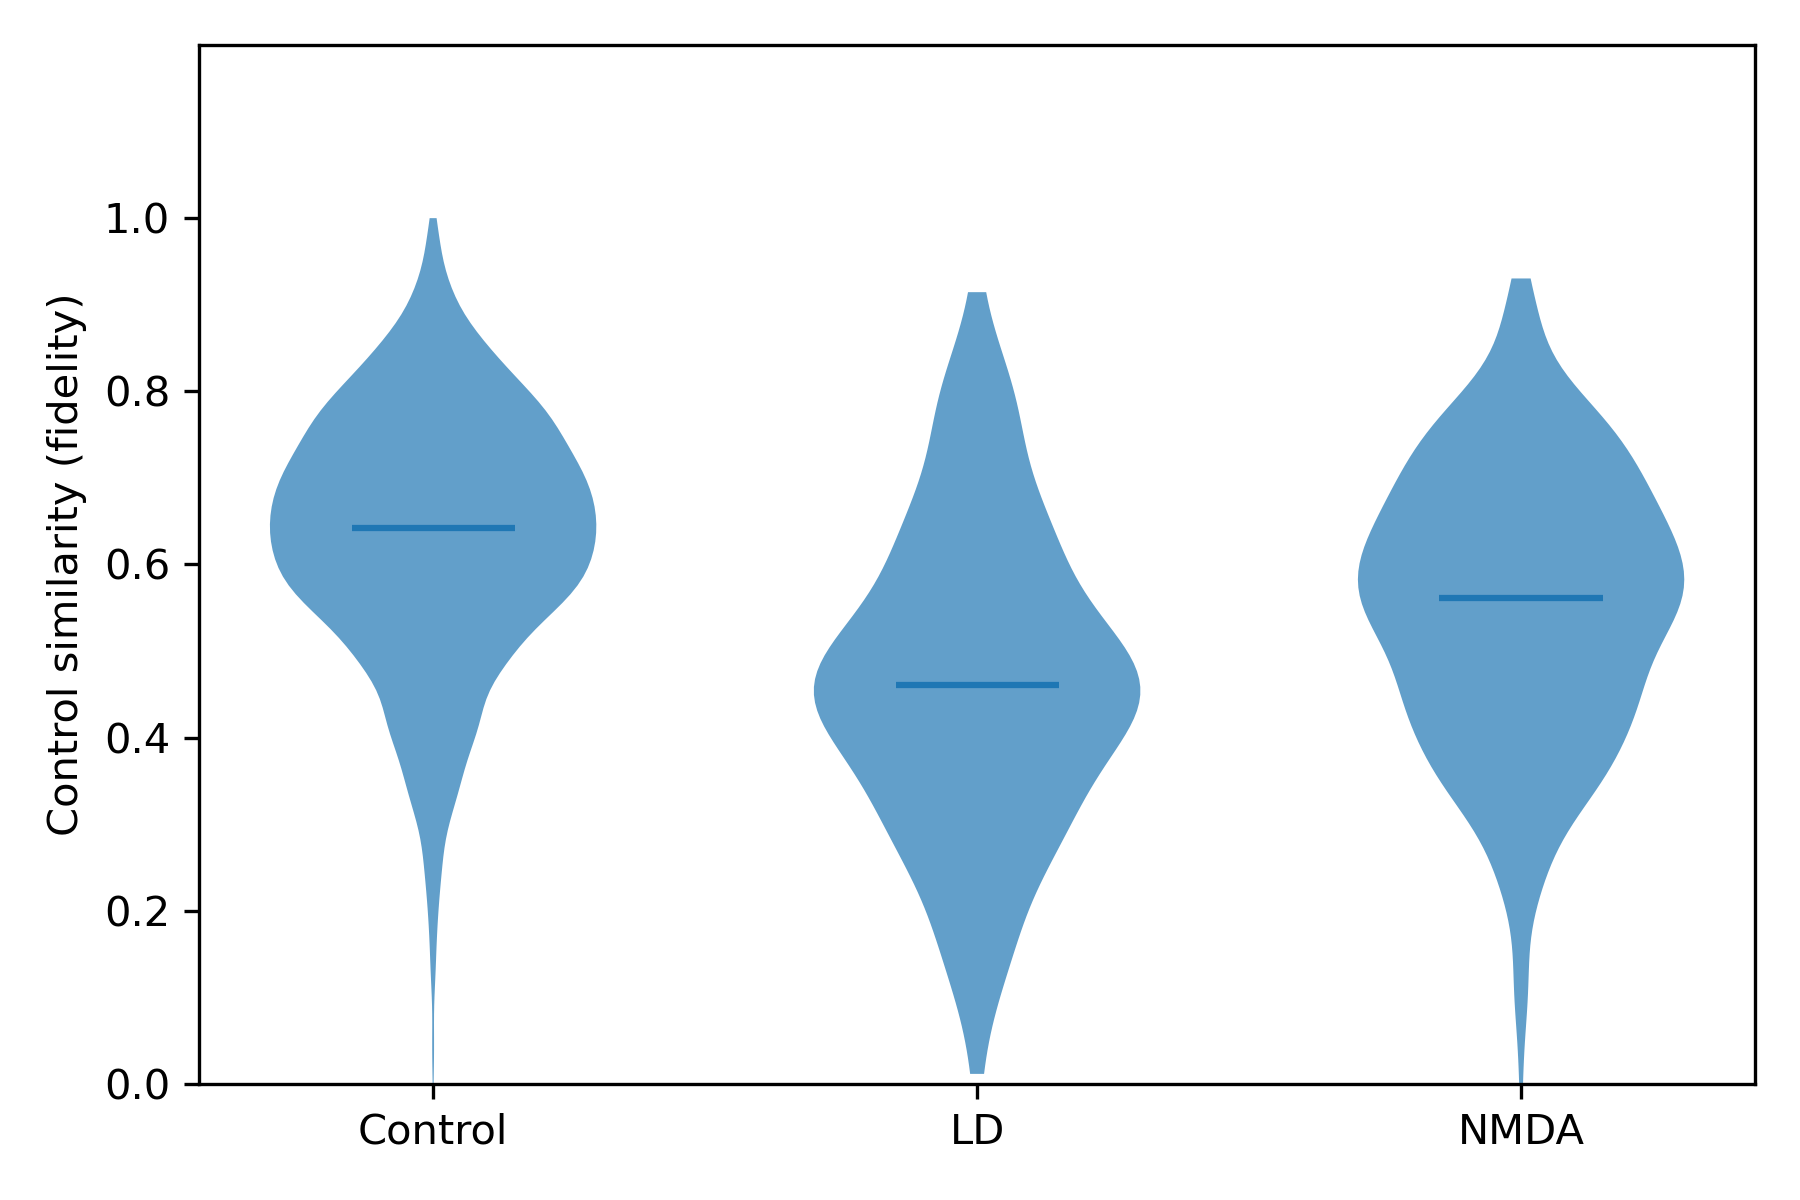
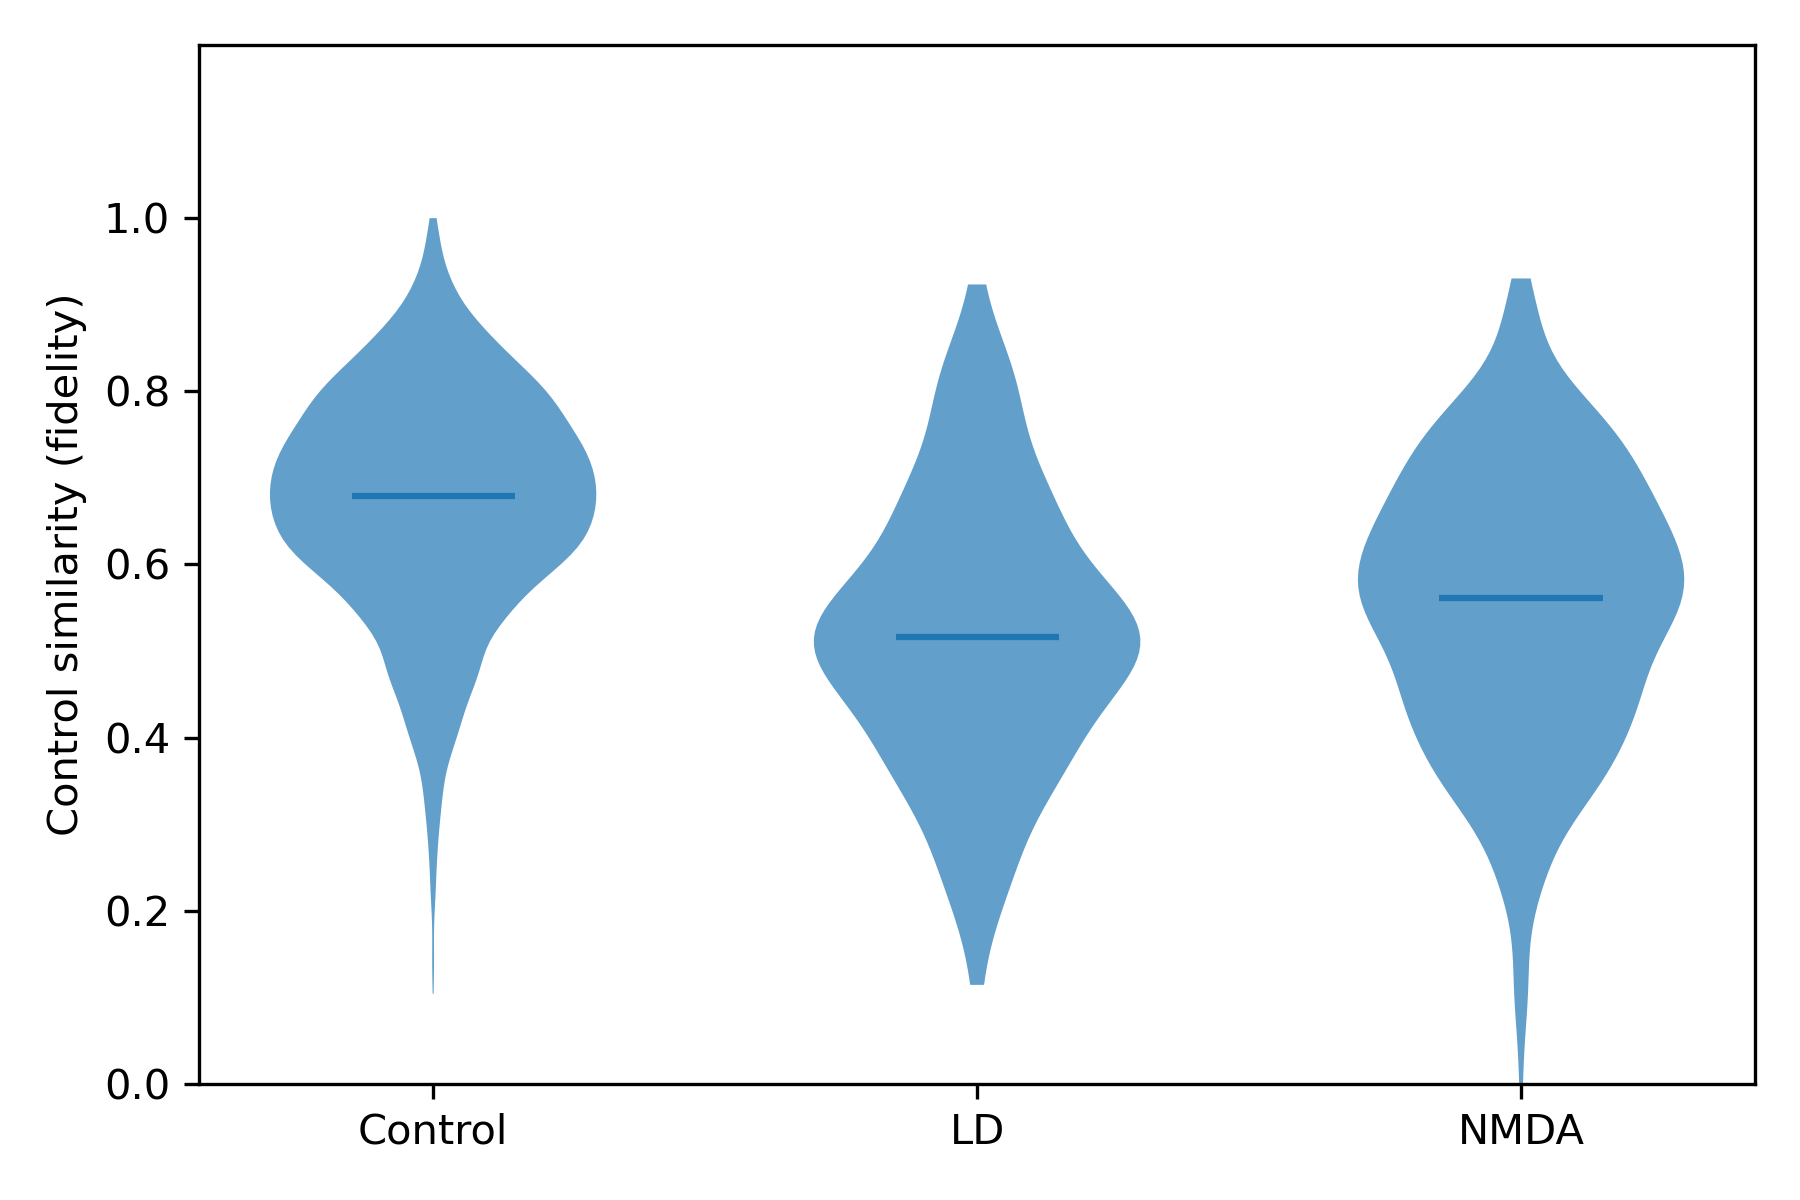
Update isolation forest plots

diff --git a/src/isolationForest.py b/src/isolationForest.py
@@ -1,6 +1,6 @@
 #!/usr/bin/env python3
 # split_classifier_fixed_full.py
-# FULL FIX — no forced baseline, correct assignments, clean scaling
+# FULL FIX — ONE Control model for all predictions
 
 import argparse
 import scanpy as sc
@@ -11,11 +11,12 @@ from sklearn.pipeline import Pipeline
 from sklearn.ensemble import IsolationForest
 from sklearn.metrics import confusion_matrix
 
-def run_control_similarity(adata, condition, hvg_n):
-
+def run_control_model(adata, hvg_n):
+    """Train ONE model on Control, predict on ALL cells"""
+    
+    # Get all Control cells for training
     train_adata = adata[adata.obs["renamed_samples"] == "Control"].copy()
-    test_adata  = adata[adata.obs["renamed_samples"] == condition].copy()
-
+    
     if train_adata.n_obs < 10:
         raise RuntimeError("Not enough Control cells to train.")
 
@@ -23,11 +24,10 @@ def run_control_similarity(adata, condition, hvg_n):
     Xc = train_adata.X.toarray() if not isinstance(train_adata.X, np.ndarray) else train_adata.X
     keep = np.var(Xc, axis=0) > 0
     train_adata = train_adata[:, keep].copy()
-    test_adata  = test_adata[:, keep].copy()
-
-    # HVG selection
+    
+    # HVG selection on Control only
     hvg_n = min(hvg_n, train_adata.n_vars)
-
+    
     try:
         sc.pp.highly_variable_genes(
             train_adata,
@@ -35,49 +35,62 @@ def run_control_similarity(adata, condition, hvg_n):
             flavor="seurat",
             subset=True
         )
-
         X_train = train_adata.X.toarray() if not isinstance(train_adata.X, np.ndarray) else train_adata.X
-        X_test  = test_adata[:, train_adata.var_names].X
-
-        if not isinstance(X_test, np.ndarray):
-            X_test = X_test.toarray()
-
+        
     except Exception:
         X_train = train_adata.X.toarray() if not isinstance(train_adata.X, np.ndarray) else train_adata.X
-        X_test  = test_adata.X.toarray() if not isinstance(test_adata.X, np.ndarray) else test_adata.X
 
     X_train = np.nan_to_num(X_train)
-    X_test  = np.nan_to_num(X_test)
-
-    # Model - ONLY CHANGE: SVM to Isolation Forest
+    
+    # Train ONE model on Control only
     model = Pipeline([
         ("scaler", StandardScaler()),
         ("iforest", IsolationForest(contamination=0.01, random_state=42))
     ])
-
+    
     model.fit(X_train)
-
-    f_train = model.decision_function(X_train)
-    f_test  = model.decision_function(X_test)
-
-    # Joint scaling (real scaling — no forcing)
-    all_f = np.concatenate([f_train, f_test])
-    f_scaled = (all_f - all_f.min()) / (all_f.max() - all_f.min() + 1e-9)
-
-    train_adata.obs[f"fidelity_{condition}"] = f_scaled[:len(f_train)]
-    test_adata.obs[f"fidelity_{condition}"]  = f_scaled[len(f_train):]
-
-    y_true = np.array([1]*len(f_train) + [0]*len(f_test))
+    
+    # Get scores for ALL cells
+    all_scores = []
+    all_cells = []
+    
+    for condition in ["Control", "LD", "NMDA"]:
+        condition_adata = adata[adata.obs["renamed_samples"] == condition].copy()
+        
+        # Align genes with training data
+        condition_adata = condition_adata[:, train_adata.var_names].copy()
+        X_condition = np.nan_to_num(to_dense(condition_adata.X))
+        
+        # Get decision scores
+        scores = model.decision_function(X_condition)
+        all_scores.extend(scores)
+        all_cells.extend(condition_adata.obs_names)
+    
+    # Scale all scores together
+    all_scores = np.array(all_scores)
+    f_scaled = (all_scores - all_scores.min()) / (all_scores.max() - all_scores.min() + 1e-9)
+    
+    # Create fidelity column
+    adata.obs["fidelity"] = np.nan
+    for i, cell_name in enumerate(all_cells):
+        adata.obs.loc[cell_name, "fidelity"] = f_scaled[i]
+    
+    # Confusion matrix for Control vs non-Control
+    y_true = np.array([1 if adata.obs.loc[cell, "renamed_samples"] == "Control" else 0 for cell in all_cells])
     y_pred = (f_scaled >= 0.5).astype(int)
-
-    print(f"\nConfusion matrix: Control vs {condition}")
+    
+    print("\nConfusion matrix: Control vs all others")
     print(confusion_matrix(y_true, y_pred))
+    
+    return adata
 
-    return train_adata, test_adata
+
+def to_dense(X):
+    from scipy.sparse import issparse
+    return X.A if issparse(X) else X
 
 
 def main():
-
     parser = argparse.ArgumentParser()
     parser.add_argument("--h5ad", required=True)
     parser.add_argument("--output", required=True)
@@ -88,21 +101,9 @@ def main():
     suffix = f"_{args.suffix}" if args.suffix else ""
 
     adata = sc.read_h5ad(args.h5ad)
-
-    # Run comparisons
-    ctrl_ld, ld = run_control_similarity(adata, "LD", args.hvg_genes)
-    ctrl_nmda, nmda = run_control_similarity(adata, "NMDA", args.hvg_genes)
-
-    # Initialize columns
-    adata.obs["fidelity_LD"] = np.nan
-    adata.obs["fidelity_NMDA"] = np.nan
-
-    # Correct assignments
-    adata.obs.loc[ctrl_ld.obs_names, "fidelity_LD"] = ctrl_ld.obs["fidelity_LD"].values
-    adata.obs.loc[ld.obs_names, "fidelity_LD"] = ld.obs["fidelity_LD"].values
-
-    adata.obs.loc[ctrl_nmda.obs_names, "fidelity_NMDA"] = ctrl_nmda.obs["fidelity_NMDA"].values
-    adata.obs.loc[nmda.obs_names, "fidelity_NMDA"] = nmda.obs["fidelity_NMDA"].values
+    
+    # Run ONE model on Control, predict everything
+    adata = run_control_model(adata, args.hvg_genes)
 
     # UMAP (independent)
     if "X_umap" not in adata.obsm:
@@ -114,27 +115,16 @@ def main():
     plt.savefig(f"umap_all_conditions{suffix}.png", dpi=300)
     plt.close()
 
-    # Violin plot (keep ticks and limits exactly as before)
+    # Violin plot - ONE model, ALL groups
     groups = ["Control", "LD", "NMDA"]
     x = np.arange(len(groups))
 
     fig, ax = plt.subplots(figsize=(6,4))
 
     data = [
-        adata.obs.loc[
-            adata.obs["renamed_samples"] == "Control",
-            "fidelity_LD"
-        ].dropna().values,
-
-        np.clip(adata.obs.loc[
-            adata.obs["renamed_samples"] == "LD",
-            "fidelity_LD"
-        ].dropna().values, 0, 1),
-
-        np.clip(adata.obs.loc[
-            adata.obs["renamed_samples"] == "NMDA",
-            "fidelity_NMDA"
-        ].dropna().values, 0, 1)
+        adata.obs.loc[adata.obs["renamed_samples"] == "Control", "fidelity"].dropna().values,
+        adata.obs.loc[adata.obs["renamed_samples"] == "LD", "fidelity"].dropna().values,
+        adata.obs.loc[adata.obs["renamed_samples"] == "NMDA", "fidelity"].dropna().values
     ]
 
     vp = ax.violinplot(
@@ -160,6 +150,7 @@ def main():
     plt.close()
 
     adata.write(args.output)
+    print(f"Saved results to {args.output}")
 
 
 if __name__ == "__main__":

diff --git a/README.md b/README.md
@@ -973,33 +973,32 @@ You have to guess BOTH correctly without knowing your data's true structure. Iso
 #### Isolation Forest Rod example 
 
 
-![](violin_fidelity_all_groups_Rod_IF.png?v=2)
+![](violin_fidelity_all_groups_Rod_IF.png?v=3)
 
 #### Isolation Forest RGC example 
 
-![](violin_fidelity_all_groups_RGC_IF.png?v=2)
+![](violin_fidelity_all_groups_RGC_IF.png?v=3)
 
 
 #### Isolation Forest BC example
 
 
-![](violin_fidelity_all_groups_BC_IF.png?v=2)
+![](violin_fidelity_all_groups_BC_IF.png?v=3)
 
 
 #### Isolation Forest Cones example 
 
 
-![](violin_fidelity_all_groups_Cones_IF.png?v=2)
+![](violin_fidelity_all_groups_Cones_IF.png?v=3)
 
 #### Isolation Forest MG example 
 
 
-![](violin_fidelity_all_groups_MG_IF.png?v=2)
+![](violin_fidelity_all_groups_MG_IF.png?v=3)
 
 #### Isolation Forest HC example 
 
-![](violin_fidelity_all_groups_HC_IF.png?v=2)
-
+![](violin_fidelity_all_groups_HC_IF.png?v=3)
 
 #### Isolation Forest classifier for all samples 
 
